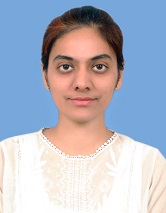
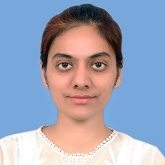
Team PhD section done

diff --git a/team.html b/team.html
@@ -44,64 +44,110 @@
 
     <!-- PhDs -->
     <section>
-      <h4>PhDs</h4>
-      <div class="people-cards">
-        <div class="card-deck">
+      <h4>PhD Students</h4>
+      <div class="team-cards">
+        <div class="card-deck ">
           <div class="card">
-            <img class="card-img-top" src="Images/People/Aditya_Saini.png" alt="Card image cap">
+            <img class="card-img-top" src="Images/People/Gagandeep_Kaur.jpg" alt="Card image cap">
             <div class="card-body">
-              <h5 class="card-title">Aditya Saini</h5>
-              <p class="card-text">PhD CSE</p>
+              <p class="card-title team-name">Gagandeep Kaur</p>
+              <p class="card-text">PhD ECE, IIITD</p>
+              <div class="team-social-links">
+                <a href="https://github.com/Gagandeep-git" target="_blank"><i class="fa fa-github"></i></a>
+                <a href="https://www.linkedin.com/in/gagandeep-kaur-93492510/" target="_blank"><i
+                    class="fa fa-linkedin"></i></a>
+              </div>
             </div>
           </div>
           <div class="card">
-            <img class="card-img-top" src="Images/People/Ayush_Madhan_Sohini.jpg" alt="Card image cap">
+            <img class="card-img-top" src="Images/People/Nazreen_Shah.jpg" alt="Card image cap">
             <div class="card-body">
-              <h5 class="card-title">Ayush Madhan Sohini</h5>
-              <p class="card-text">PhD CSE</p>
+              <p class="card-title team-name">Nazreen Shah Ambalath</p>
+              <p class="card-text">PhD ECE, IIITD</p>
+              <div class="team-social-links">
+                <a href="https://github.com/nazreenshah" target="_blank"><i class="fa fa-github"></i></a>
+                <a href="https://www.linkedin.com/in/nazreenshah1997/" target="_blank"><i
+                    class="fa fa-linkedin"></i></a>
+              </div>
             </div>
           </div>
           <div class="card">
-            <img class="card-img-top" src="Images/People/Divyansh_Rastogi.jpeg" alt="Card image cap">
+            <img class="card-img-top" src="Images/People/Zubair_Shaban.jpg" alt="Card image cap">
             <div class="card-body">
-              <h5 class="card-title">Divyansh Rastogi</h5>
-              <p class="card-text">PhD CSE</p>
+              <p class="card-title team-name">Zubair Shaban</p>
+              <p class="card-text">PhD ECE, IIITD</p>
+              <div class="team-social-links">
+                <a href="linkedin.com/in/zubair-shaban-482966167" target="_blank"><i class="fa fa-linkedin"></i></a>
+              </div>
             </div>
           </div>
-        </div>
-      </div>
-
-      <div class="whitespace"> </div>
-
-      <div class="people-cards">
-        <div class="card-deck">
-          <div class="card">
-            <img class="card-img-top" src="Images/People/Aditya_Saini.png" alt="Card image cap">
+          <div class="card invisible d-none d-sm-block">
+            <img class="card-img-top" src="Images/People/Zubair_Shaban.jpg" alt="Card image cap">
             <div class="card-body">
-              <h5 class="card-title">Aditya Saini</h5>
-              <p class="card-text">PhD CSE</p>
-            </div>
-          </div>
-          <div class="card">
-            <img class="card-img-top" src="Images/People/Ayush_Madhan_Sohini.jpg" alt="Card image cap">
-            <div class="card-body">
-              <h5 class="card-title">Ayush Madhan Sohini</h5>
-              <p class="card-text">PhD CSE</p>
-            </div>
-          </div>
-          <div class="card">
-            <img class="card-img-top" src="Images/People/Divyansh_Rastogi.jpeg" alt="Card image cap">
-            <div class="card-body">
-              <h5 class="card-title">Divyansh Rastogi</h5>
-              <p class="card-text">PhD CSE</p>
+              <p class="card-title team-name">Zubair Shaban</p>
+              <p class="card-text">PhD ECE, IIITD</p>
+              <div class="team-social-links">
+                <a href="linkedin.com/in/zubair-shaban-482966167" target="_blank"><i class="fa fa-linkedin"></i></a>
+              </div>
             </div>
           </div>
         </div>
       </div>
-      <div class="whitespace"> </div>
     </section>
 
     <!-- Post Graduates -->
+    <section>
+      <h4>Post Graduate Students</h4>
+      <div class="team-cards">
+        <div class="card-deck ">
+          <div class="card">
+            <img class="card-img-top" src="Images/People/Gagandeep_Kaur.jpg" alt="Card image cap">
+            <div class="card-body">
+              <p class="card-title team-name">Gagandeep Kaur</p>
+              <p class="card-text">PhD ECE, IIITD</p>
+              <div class="team-social-links">
+                <a href="https://github.com/Gagandeep-git" target="_blank"><i class="fa fa-github"></i></a>
+                <a href="https://www.linkedin.com/in/gagandeep-kaur-93492510/" target="_blank"><i
+                    class="fa fa-linkedin"></i></a>
+              </div>
+            </div>
+          </div>
+          <div class="card">
+            <img class="card-img-top" src="Images/People/Nazreen_Shah.jpg" alt="Card image cap">
+            <div class="card-body">
+              <p class="card-title team-name">Nazreen Shah Ambalath</p>
+              <p class="card-text">PhD ECE, IIITD</p>
+              <div class="team-social-links">
+                <a href="https://github.com/nazreenshah" target="_blank"><i class="fa fa-github"></i></a>
+                <a href="https://www.linkedin.com/in/nazreenshah1997/" target="_blank"><i
+                    class="fa fa-linkedin"></i></a>
+              </div>
+            </div>
+          </div>
+          <div class="card">
+            <img class="card-img-top" src="Images/People/Zubair_Shaban.jpg" alt="Card image cap">
+            <div class="card-body">
+              <p class="card-title team-name">Zubair Shaban</p>
+              <p class="card-text">PhD ECE, IIITD</p>
+              <div class="team-social-links">
+                <a href="linkedin.com/in/zubair-shaban-482966167" target="_blank"><i class="fa fa-linkedin"></i></a>
+              </div>
+            </div>
+          </div>
+          <div class="card">
+            <img class="card-img-top" src="Images/People/Zubair_Shaban.jpg" alt="Card image cap">
+            <div class="card-body">
+              <p class="card-title team-name">Zubair Shaban</p>
+              <p class="card-text">PhD ECE, IIITD</p>
+              <div class="team-social-links">
+                <a href="linkedin.com/in/zubair-shaban-482966167" target="_blank"><i class="fa fa-linkedin"></i></a>
+              </div>
+            </div>
+          </div>
+        </div>
+      </div>
+    </section>
+
 
     <!-- Undergraduates -->
 

diff --git a/style.css b/style.css
@@ -158,9 +158,33 @@ ul {
   margin-right: 0vw;
 }
 
-.people-cards {
+.team-cards {
   margin-left: 10vw;
   margin-right: 10vw;
+  padding-top: 10px;
+  padding-bottom: 10px;
+}
+
+.team-name {
+  font-weight: 600;
+}
+
+.team-social-links a {
+  display: inline-block;
+  transition: 0.2s;
+  padding-right: 5px;
+}
+
+.team-social-links a:hover {
+  transform: scale(1.2);
+}
+
+.team-social-links a i {
+  color: #1c2321;
+}
+
+.team-social-links {
+  font-size: 17px;
 }
 
 /* Contact */
